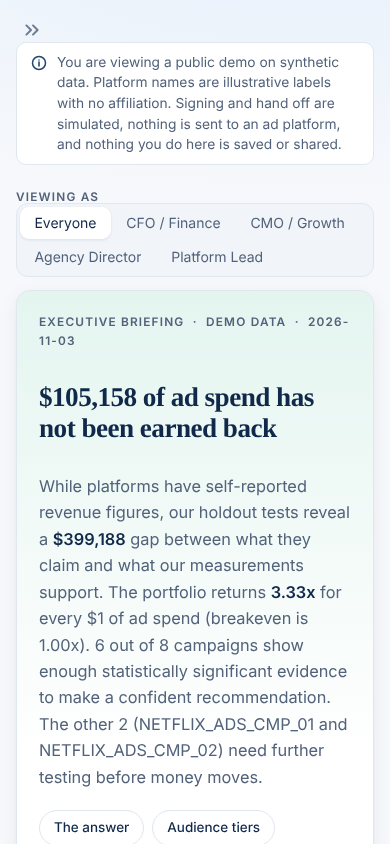
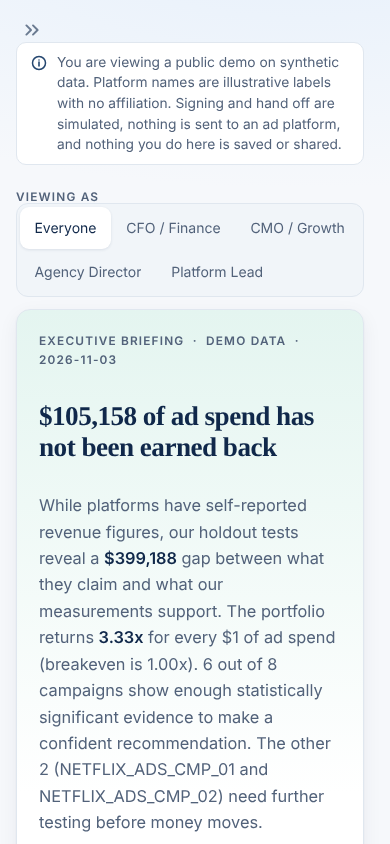
Legibility and smoothness pass: contrast, sizes, visible controls, phone tables, smooth scrolling (no copy changes)
Claude-Session: https://claude.ai/code/session_01E2dNAjPTL2vyoZQArjoSxL

diff --git a/app/ui.py b/app/ui.py
@@ -15,11 +15,11 @@ import streamlit as st
 
 # ------------------------------------------------------------------------------------------- tokens
 LIGHT: Dict[str, str] = dict(bg="#F6F8FB", card="#FFFFFF", surface="#F1F5F9", surface2="#EDF3FA", border="#E0E7EF", border_strong="#C7D2DF", ink="#10284A", muted="#52627A",
-                             accent="#18345B", accent2="#24466F", accent_soft="#E8F0FA", ok="#087F6A", ok_bg="#E4F5F0", ok_mid="#159A83", warn="#96500A", warn_bg="#FFF4DB",
+                             accent="#18345B", on_accent="#FFFFFF", accent2="#24466F", accent_soft="#E8F0FA", ok="#087F6A", ok_text="#06705D", ok_bg="#E4F5F0", ok_mid="#159A83", warn="#96500A", warn_bg="#FFF4DB",
                              bad="#B3333B", bad_bg="#FDEAEB", grid="#EBF0F5", claimed="#4E8FE7", model="#8D82D8", proven="#159A83",
                              hero_a="#EFF5FB", hero_b="#FFFFFF", shadow="rgba(16,40,74,.06)", shadow2="rgba(16,40,74,.10)", ring="rgba(21,154,131,.32)", glow="#E6F0FB")
 DARK: Dict[str, str] = dict(bg="#0E1A2E", card="#14233B", surface="#122038", surface2="#1A2C47", border="#27395A", border_strong="#3A5078", ink="#E6EDF7", muted="#9FB0C6",
-                            accent="#8FB0FF", accent2="#B4CAFF", accent_soft="#1B2E52", ok="#5FD1B3", ok_bg="#10332D", ok_mid="#43B69F", warn="#F0C25E", warn_bg="#3A2F12",
+                            accent="#8FB0FF", on_accent="#0E1A2E", accent2="#B4CAFF", accent_soft="#1B2E52", ok="#5FD1B3", ok_text="#5FD1B3", ok_bg="#10332D", ok_mid="#43B69F", warn="#F0C25E", warn_bg="#3A2F12",
                             bad="#FF9AA0", bad_bg="#3D1A1E", grid="#233450", claimed="#6FA5F0", model="#A89FE6", proven="#43B69F",
                             hero_a="#16263F", hero_b="#0E1A2E", shadow="rgba(0,0,0,.25)", shadow2="rgba(0,0,0,.35)", ring="rgba(95,209,179,.40)", glow="#132238")
 # Okabe-Ito based channel colors: distinguishable under the common forms of color blindness
@@ -84,7 +84,7 @@ h5 {{font-weight: 600; font-size: 1.08rem; margin-bottom: .1rem;}}
 .brand {{display: flex; align-items: center; gap: 10px; padding: 4px 0 6px;}}
 .brand svg {{flex: none;}}
 .brand .wm {{font-size: 1.35rem; font-weight: 700; letter-spacing: .02em; color: {t['ink']}; line-height: 1;}}
-.brand .sub {{font-size: .68rem; line-height: 1.25; color: {t['muted']}; margin-top: 3px;}}
+.brand .sub {{font-size: .75rem; line-height: 1.25; color: {t['muted']}; margin-top: 3px;}}
 .hero {{position: relative; overflow: hidden; border: 1px solid {t['border']}; border-radius: 14px; padding: 40px 44px 32px;
   background: linear-gradient(180deg, {t['hero_a']}, {t['hero_b']}); box-shadow: 0 1px 3px {t['shadow']};}}
 .kicker {{font-size: .74rem; letter-spacing: .1em; text-transform: uppercase; color: {t['muted']}; font-weight: 600;}}
@@ -105,7 +105,7 @@ h5 {{font-weight: 600; font-size: 1.08rem; margin-bottom: .1rem;}}
 .brief .impact .big.neutral {{color: {t['ink']};}}
 .brief .facts {{display: grid; grid-template-columns: repeat(3, 1fr); gap: 12px; border-top: 1px solid {t['border']}; margin-top: 16px; padding-top: 14px;}}
 .brief .facts .v {{font-size: 1.12rem; font-weight: 600; color: {t['ink']}; font-variant-numeric: tabular-nums;}}
-.brief .facts .l {{font-size: .74rem; color: {t['muted']}; line-height: 1.35; margin-top: 2px;}}
+.brief .facts .l {{font-size: .78rem; color: {t['muted']}; line-height: 1.35; margin-top: 2px;}}
 .brief .conf {{margin-top: auto; padding-top: 14px; border-top: 1px solid {t['border']}; font-size: .84rem; color: {t['muted']}; display: flex; gap: 8px; align-items: center; flex-wrap: wrap;}}
 .brief .conf span:nth-child(2) {{flex: 1 1 170px;}}
 .brief .conf a {{flex-basis: 100%; margin: 2px 0 0 24px; color: {t['accent']}; font-weight: 600; text-decoration: none;}}
@@ -118,7 +118,7 @@ h5 {{font-weight: 600; font-size: 1.08rem; margin-bottom: .1rem;}}
 .pill {{display: inline-flex; align-items: center; gap: 6px; padding: 2px 10px 2px 8px; border-radius: 999px; font-size: .76rem; font-weight: 600;
   line-height: 1.5; border: 1px solid transparent; white-space: nowrap;}}
 .pill svg {{flex: none;}}
-.pill-ok {{background: {t['ok_bg']}; color: {t['ok']};}} .pill-warn {{background: {t['warn_bg']}; color: {t['warn']};}}
+.pill-ok {{background: {t['ok_bg']}; color: {t['ok_text']};}} .pill-warn {{background: {t['warn_bg']}; color: {t['warn']};}}
 .pill-bad {{background: {t['bad_bg']}; color: {t['bad']};}} .pill-info {{background: {t['accent_soft']}; color: {t['accent']};}}
 .pill-muted {{background: {t['surface2']}; color: {t['muted']};}}
 .stats {{display: grid; grid-template-columns: repeat(auto-fit, minmax(210px, 1fr)); gap: 14px; margin: 18px 0 8px;}}
@@ -156,7 +156,7 @@ h5 {{font-weight: 600; font-size: 1.08rem; margin-bottom: .1rem;}}
 .gov div {{display: flex; gap: 8px; align-items: center; font-size: .88rem; color: {t['ink']};}}
 .trio {{display: grid; grid-template-columns: repeat(3, 1fr); gap: 10px; margin: 10px 0;}}
 .trio .m {{border: 1px solid {t['border']}; border-top: 3px solid var(--c); border-radius: 10px; padding: 10px 12px; background: {t['card']};}}
-.trio .m .l {{font-size: .74rem; color: {t['muted']};}} .trio .m .v {{font-size: 1.3rem; font-weight: 600; font-variant-numeric: tabular-nums; color: {t['ink']};}}
+.trio .m .l {{font-size: .78rem; color: {t['muted']};}} .trio .m .v {{font-size: 1.3rem; font-weight: 600; font-variant-numeric: tabular-nums; color: {t['ink']};}}
 .ring {{display: flex; gap: 22px; align-items: center; flex-wrap: wrap;}}
 .ring .rows {{flex: 1 1 220px; display: grid; gap: 8px;}}
 .ring .row {{display: flex; justify-content: space-between; font-size: .88rem; border-bottom: 1px solid {t['border']}; padding-bottom: 6px;}}
@@ -172,7 +172,7 @@ h5 {{font-weight: 600; font-size: 1.08rem; margin-bottom: .1rem;}}
 .matchcard .mt {{font-weight: 600; display: flex; gap: 10px; align-items: center; flex-wrap: wrap; margin-bottom: 8px;}}
 .page-head {{margin: .2rem 0 1.4rem;}} .page-head h1 {{font-size: 2.1rem; margin: .2rem 0 .3rem; font-weight: 600;}}
 .page-head p {{color: {t['muted']}; font-size: 1.02rem; max-width: 760px; line-height: 1.55; margin: 0;}}
-table.mm {{border-collapse: collapse; width: 100%; font-size: .9rem;}} table.mm th {{text-align: left; color: {t['muted']}; font-weight: 600; font-size: .74rem;
+table.mm {{border-collapse: collapse; width: 100%; font-size: .9rem;}} table.mm th {{text-align: left; color: {t['muted']}; font-weight: 600; font-size: .76rem;
   letter-spacing: .05em; text-transform: uppercase; border-bottom: 1px solid {t['border']}; padding: 8px 10px;}}
 table.mm td {{padding: 9px 10px; border-bottom: 1px solid {t['border']}; font-variant-numeric: tabular-nums;}}
 @media (max-width: 760px) {{ .hero {{padding: 26px 20px;}} .sec h2 {{font-size: 1.4rem;}} .trio {{grid-template-columns: 1fr;}} .brief .facts {{grid-template-columns: 1fr;}} }}
@@ -187,7 +187,7 @@ html {{-webkit-font-smoothing: antialiased; text-rendering: optimizeLegibility;}
 [data-testid="stSidebar"] [data-testid="stPageLink-NavLink"] {{border-radius: 10px; padding: .2rem .6rem; margin: 0; min-height: 2.1rem; transition: background-color .18s ease-out, transform .18s ease-out;}}
 [data-testid="stSidebar"] [data-testid="stPageLink-NavLink"]:hover {{background: {t['surface']}; transform: translateX(1px);}}
 [data-testid="stSidebar"] [data-testid="stPageLink-NavLink"] p {{font-size: .92rem; font-weight: 500; letter-spacing: -0.005em;}}
-[data-testid="stSidebar"] .kicker {{font-size: .68rem; letter-spacing: .12em; color: {t['muted']}; opacity: .85;}}
+[data-testid="stSidebar"] .kicker {{font-size: .75rem; letter-spacing: .1em; color: {t['muted']};}}
 [data-testid="stMain"] [data-testid="stPageLink-NavLink"] {{display: inline-flex; border: 1px solid {t['border']}; border-radius: 10px; padding: .4rem .8rem; background: {t['card']}; transition: border-color .18s ease-out, box-shadow .18s ease-out;}}
 [data-testid="stMain"] [data-testid="stPageLink-NavLink"]:hover {{border-color: {t['ok_mid']}; box-shadow: 0 2px 8px {t['shadow']};}}
 [data-testid="stButtonGroup"] [role="radiogroup"] {{background: {t['surface']}; border: 1px solid {t['border']}; border-radius: 12px; padding: 3px; gap: 2px; display: inline-flex;}}
@@ -201,11 +201,9 @@ html {{-webkit-font-smoothing: antialiased; text-rendering: optimizeLegibility;}
 [data-testid="stExpander"] {{background: {t['card']}; box-shadow: 0 1px 2px {t['shadow']}; transition: box-shadow .18s ease-out;}}
 [data-testid="stExpander"]:hover {{box-shadow: 0 2px 8px {t['shadow']};}}
 [data-testid="stExpander"] summary {{font-weight: 500;}}
-[data-testid="stSelectbox"] [data-baseweb="select"] > div, [data-testid="stTextInput"] [data-baseweb="input"], [data-testid="stNumberInput"] [data-baseweb="input"],
-[data-testid="stTextArea"] [data-baseweb="textarea"] {{background: {t['card']}; border-color: {t['border_strong']}; border-radius: 10px; transition: border-color .18s ease-out, box-shadow .18s ease-out;}}
-[data-testid="stSelectbox"] [data-baseweb="select"] > div:hover, [data-testid="stTextInput"] [data-baseweb="input"]:hover {{border-color: {t['accent2']};}}
-[data-testid="stSelectbox"] [data-baseweb="select"] > div:focus-within, [data-testid="stTextInput"] [data-baseweb="input"]:focus-within, [data-testid="stNumberInput"] [data-baseweb="input"]:focus-within,
-[data-testid="stTextArea"] [data-baseweb="textarea"]:focus-within {{border-color: {t['ok_mid']}; box-shadow: 0 0 0 3px {t['ring']};}}
+[data-testid="stTextInputRootElement"], [data-testid="stTextAreaRootElement"], [data-testid="stNumberInputContainer"], [data-testid="stSelectbox"] [role="group"], [data-testid="stMultiSelect"] [role="group"] {{background: {t['card']} !important; border: 1px solid {t['border_strong']} !important; border-radius: 10px !important; transition: border-color .18s ease-out, box-shadow .18s ease-out;}}
+[data-testid="stTextInputRootElement"]:hover, [data-testid="stTextAreaRootElement"]:hover, [data-testid="stNumberInputContainer"]:hover, [data-testid="stSelectbox"] [role="group"]:hover, [data-testid="stMultiSelect"] [role="group"]:hover {{border-color: {t['accent2']} !important;}}
+[data-testid="stTextInputRootElement"]:focus-within, [data-testid="stTextAreaRootElement"]:focus-within, [data-testid="stNumberInputContainer"]:focus-within, [data-testid="stSelectbox"] [role="group"]:focus-within, [data-testid="stMultiSelect"] [role="group"]:focus-within {{border-color: {t['ok_mid']} !important; box-shadow: 0 0 0 3px {t['ring']};}}
 [data-testid="stWidgetLabel"] p {{font-weight: 500; font-size: .9rem;}}
 [data-testid="stMultiSelect"] [data-tag] {{background: {t['accent_soft']} !important; color: {t['accent']} !important; border: 1px solid {t['border']}; border-radius: 8px !important; font-weight: 500;}}
 [data-testid="stMultiSelect"] [data-tag] span, [data-testid="stMultiSelect"] [data-tag] svg {{color: {t['accent']} !important;}}
@@ -236,6 +234,32 @@ table.mm tr:last-child td {{border-bottom: 0;}}
 .sec p {{max-width: 72ch;}}
 .hero {{box-shadow: 0 1px 2px {t['shadow']}, 0 6px 20px {t['shadow']};}}
 @media (max-width: 760px) {{ [data-testid="stButtonGroup"] [role="radiogroup"] {{display: flex; flex-wrap: wrap;}} .block-container {{padding-left: 1rem; padding-right: 1rem;}} }}
+
+/* ---- legibility and smoothness ---- */
+html {{scroll-behavior: smooth;}}
+[data-testid="stMain"] {{scroll-behavior: smooth; scrollbar-gutter: stable; scrollbar-width: thin; scrollbar-color: {t['border_strong']} transparent;}}
+[data-testid="stSidebar"] * {{scrollbar-width: thin;}}
+[data-stale="true"] {{opacity: .62 !important; transition: opacity .2s ease-out;}}
+[data-testid="stPlotlyChart"] {{min-height: 260px;}}
+[data-testid="stSliderTickBar"] p, [data-testid="stSliderTickBarMin"], [data-testid="stSliderTickBarMax"] {{color: {t['muted']} !important;}}
+[data-testid="stSliderThumbValue"] {{color: {t['ink']} !important; font-weight: 600;}}
+.stButton > button:disabled, .stDownloadButton > button:disabled {{background: {t['surface']} !important; color: {t['muted']} !important; border: 1px solid {t['border']} !important; box-shadow: none !important; cursor: not-allowed;}}
+[data-testid="stAlert"] p, [data-testid="stAlert"] li, [data-testid="stAlert"] strong {{color: {t['ink']} !important;}}
+[data-testid="stCaptionContainer"] {{color: {t['muted']};}}
+.note, .src {{color: {t['muted']};}}
+@media (max-width: 760px) {{ [data-testid="stButtonGroup"] button[data-variant="segmented_control"] {{min-height: 2.6rem;}} .stButton > button {{min-height: 2.75rem;}} }}
+[data-testid="stMarkdownContainer"] table {{display: block; max-width: 100%; overflow-x: auto; border-collapse: collapse; font-size: .9rem; border: 1px solid {t['border']}; border-radius: 10px; background: {t['card']};}}
+[data-testid="stMarkdownContainer"] table th {{background: {t['surface']}; color: {t['ink']}; font-weight: 600; text-align: left; padding: .5rem .7rem; border-bottom: 1px solid {t['border']};}}
+[data-testid="stMarkdownContainer"] table td {{padding: .5rem .7rem; border-bottom: 1px solid {t['border']}; vertical-align: top;}}
+[data-testid="stMarkdownContainer"] table tr:last-child td {{border-bottom: 0;}}
+.stButton > button[kind="primary"] p, .stDownloadButton > button[kind="primary"] p {{color: {t['on_accent']} !important;}}
+.stButton > button[kind="secondary"] p, .stDownloadButton > button[kind="secondary"] p {{color: {t['ink']} !important;}}
+.stButton > button[kind]:disabled p, .stDownloadButton > button[kind]:disabled p {{color: {t['muted']} !important;}}
+[data-testid="stCaptionContainer"], [data-testid="stCaptionContainer"] p, [data-testid="stCaptionContainer"] span {{opacity: 1 !important; color: {t['muted']} !important;}}
+::placeholder {{color: {t['muted']} !important; opacity: .85 !important;}}
+[data-testid="stCheckbox"] label:not(:has(input:checked)) > span + div, [data-testid="stRadioOption"]:not(:has(input:checked)) > span + div > div:first-child {{border: 1.5px solid {t['border_strong']} !important; background: {t['card']} !important;}}
+[data-testid="stCheckbox"] label:hover:not(:has(input:checked)) > span + div, [data-testid="stRadioOption"]:hover:not(:has(input:checked)) > span + div > div:first-child {{border-color: {t['accent2']} !important;}}
+[data-testid="stButton"] {{margin-top: .35rem;}}
 @media (prefers-reduced-motion: reduce) {{ * {{transition: none !important; animation: none !important;}} }}
 </style>
 """
@@ -393,7 +417,7 @@ def validity_ring(score: float, rows: Sequence[Tuple[str, str]]) -> None:
     svg = (f'<svg width="130" height="130" viewBox="0 0 130 130" role="img" aria-label="Measurement score {score:.0f} out of 100"><circle cx="65" cy="65" r="52" fill="none" stroke="{t["border"]}" stroke-width="12"/>'
            f'<circle cx="65" cy="65" r="52" fill="none" stroke="{t["ok_mid"]}" stroke-width="12" stroke-linecap="round" stroke-dasharray="{circ * pct:.1f} {circ:.1f}" transform="rotate(-90 65 65)"/>'
            f'<text x="65" y="64" text-anchor="middle" font-size="26" font-weight="600" fill="{t["ink"]}">{score:.0f}</text>'
-           f'<text x="65" y="84" text-anchor="middle" font-size="11" fill="{t["muted"]}">out of 100</text></svg>')
+           f'<text x="65" y="84" text-anchor="middle" font-size="12" fill="{t["muted"]}">out of 100</text></svg>')
     body = "".join(f'<div class="row"><span>{html.escape(l)}</span><b>{html.escape(v)}</b></div>' for l, v in rows)
     st.markdown(f'<div class="ring">{svg}<div class="rows">{body}</div></div>', unsafe_allow_html=True)
 

diff --git a/app/charts.py b/app/charts.py
@@ -203,7 +203,7 @@ def overclaim_chart(inf: pd.DataFrame, moderate: float, critical: float, headlin
     fig.update_yaxes(showgrid=False, autorange=True)
     for x, label, color, shift in ((moderate, f"Review above {moderate:g}x", caution(), 0), (critical, f"Critical above {critical:g}x", danger(), 16)):
         fig.add_vline(x=x, line_dash="dot", line_color=color, line_width=1.5)
-        fig.add_annotation(x=x, yref="paper", y=1.0, yshift=shift, text=label, showarrow=False, yanchor="bottom", xanchor="left", font=dict(color=color, size=11))
+        fig.add_annotation(x=x, yref="paper", y=1.0, yshift=shift, text=label, showarrow=False, yanchor="bottom", xanchor="left", font=dict(color=color, size=12))
     fig.update_layout(barmode="overlay")
     return _layout(fig, headline, "A value of 1.0x means the platform claims exactly what the test confirms. Higher means more over-claiming.", bar_height(len(d)) + 40, bottom=96)
 
@@ -307,7 +307,7 @@ def sensitivity_chart(table: pd.DataFrame, break_even: float, headline: str) -> 
     fig.update_xaxes(title_text="How much lower the return on the new money is than its average", ticksuffix="%")
     if pd.notna(break_even) and 0 < break_even < table["haircut"].max() * 2:
         fig.add_vline(x=break_even * 100, line_dash="dot", line_color=caution(), line_width=1.5)
-        fig.add_annotation(x=break_even * 100, yref="paper", y=1.0, text=f"Net change reaches zero at {break_even:.0%}", showarrow=False, yanchor="bottom", font=dict(color=caution(), size=11))
+        fig.add_annotation(x=break_even * 100, yref="paper", y=1.0, text=f"Net change reaches zero at {break_even:.0%}", showarrow=False, yanchor="bottom", font=dict(color=caution(), size=12))
     return _layout(fig, headline, "If returns fall as spend rises, the net gain shrinks. The dashed line marks where the move stops adding revenue.", 400, bottom=90)
 
 

diff --git a/tests/test_design_system.py b/tests/test_design_system.py
@@ -2,6 +2,8 @@
 from __future__ import annotations
 
 import re
+
+import pytest
 import sys
 from pathlib import Path
 
@@ -45,3 +47,29 @@ def test_components_render_without_emoji_or_dollar_escapes_breaking(monkeypatch)
 def test_logo_file_exists_and_is_valid_svg() -> None:
     svg = (ROOT / "docs" / "img" / "logo.svg").read_text()
     assert svg.startswith("<svg") and re.search(r"#159A83", svg)
+
+
+def _lum(hex_: str) -> float:
+    h = hex_.lstrip("#")
+    r, g, b = (int(h[i:i + 2], 16) / 255 for i in (0, 2, 4))
+    f = lambda v: v / 12.92 if v <= 0.03928 else ((v + 0.055) / 1.055) ** 2.4  # noqa: E731
+    return 0.2126 * f(r) + 0.7152 * f(g) + 0.0722 * f(b)
+
+
+def _ratio(a: str, b: str) -> float:
+    la, lb = sorted((_lum(a), _lum(b)), reverse=True)
+    return (la + 0.05) / (lb + 0.05)
+
+
+@pytest.mark.parametrize("theme", ["LIGHT", "DARK"])
+def test_text_colours_meet_the_contrast_standard_on_their_surfaces(theme: str) -> None:
+    t = getattr(ui, theme)
+    pairs = [("ink", "bg"), ("ink", "card"), ("ink", "surface"), ("ink", "surface2"), ("muted", "bg"), ("muted", "card"), ("muted", "surface"), ("muted", "surface2"),
+             ("ok_text", "ok_bg"), ("ok", "card"), ("ok", "bg"), ("warn", "warn_bg"), ("warn", "card"), ("bad", "bad_bg"), ("bad", "card"), ("accent", "accent_soft"), ("accent", "card")]
+    for fg, bg in pairs:
+        assert _ratio(t[fg], t[bg]) >= 4.5, (theme, fg, bg, round(_ratio(t[fg], t[bg]), 2))
+
+
+def test_the_chart_series_colours_are_distinguishable_from_the_page() -> None:
+    for key in ("claimed", "model", "proven"):
+        assert _ratio(ui.LIGHT[key], ui.LIGHT["card"]) >= 3.0, key  # graphical objects need 3:1

diff --git a/docs/DESIGN_SYSTEM.md b/docs/DESIGN_SYSTEM.md
@@ -88,6 +88,13 @@ Light mode is the primary experience and follows five research backed habits of 
 4. **Visible focus and calm motion.** A 2 px green focus ring and a soft focus halo on inputs support keyboard use; transitions are 150 to 250 ms and switch off for people who prefer reduced motion.
 5. **Rhythm and measure.** Generous spacing, line lengths capped near 70 characters, tabular figures for numbers, and a larger gap before each numbered section.
 
+## 6c. Legibility and smoothness standards
+* **Contrast:** all body text and labels meet at least 4.5 to 1 against their surface (large text and chart marks 3 to 1), in light and dark. A test checks the token pairs, and the check scans every page for text below the standard, including text dimmed by opacity.
+* **Size:** nothing renders below about 12 px. Captions, notes and source lines use the muted colour at full opacity, not a faded one.
+* **Form controls:** inputs, selects, radio buttons and checkboxes have a visible border before they are used; disabled buttons stay readable.
+* **No sideways scrolling:** tables, including those inside the guides, scroll within their own frame at phone width.
+* **Smoothness:** anchor links and scrolling are smooth with a stable scrollbar gutter (no layout jump), charts reserve their height while loading, content that is refreshing fades gently instead of flashing, and motion switches off for people who prefer reduced motion.
+
 ## 7. Motion
 150 to 250 ms, ease out, for card expansion, navigation, dropdowns and chart changes. No particles, glow, animated gradients, bouncing or typing effects.
 

diff --git a/docs/CHANGELOG.md b/docs/CHANGELOG.md
@@ -1,6 +1,11 @@
 # Changelog
 
-## Light mode refinement (latest)
+## Legibility pass (latest)
+* A full scan of every page at desktop and phone width, in light and dark, for contrast, size and clipping. Fixes: captions and notes no longer faded (they measured about 2.6 to 1, now above 5 to 1); status pill green darkened; sidebar group labels and the brand subtitle enlarged; slider labels, alerts and disabled buttons made readable; chart annotations enlarged; unselected radio buttons, checkboxes, inputs and dropdowns now have a visible border; placeholders strengthened; markdown tables scroll inside their frame on phones; dark mode buttons keep readable text.
+* Smoothness: smooth scrolling and a stable scrollbar gutter, charts reserve height, softer refresh state, larger touch targets on phones.
+* A contrast test now guards the colour tokens in both themes.
+
+## Light mode refinement
 * Light palette retuned (cooler page, hairline borders, a stronger input border, a softer amber for review states) and a faint top right glow for depth.
 * Sidebar navigation tightened with hover states; segmented controls are one rounded group with a raised selection; tabs use a green underline; inputs, selects, tags, buttons and expanders share radius, border and focus styling; the demo notice is a slim quiet strip.
 * Executive briefing impact panel and confidence line tidied; tables get a framed container and row hover; chart bars have rounded corners with lighter axis text and styled tooltips.
